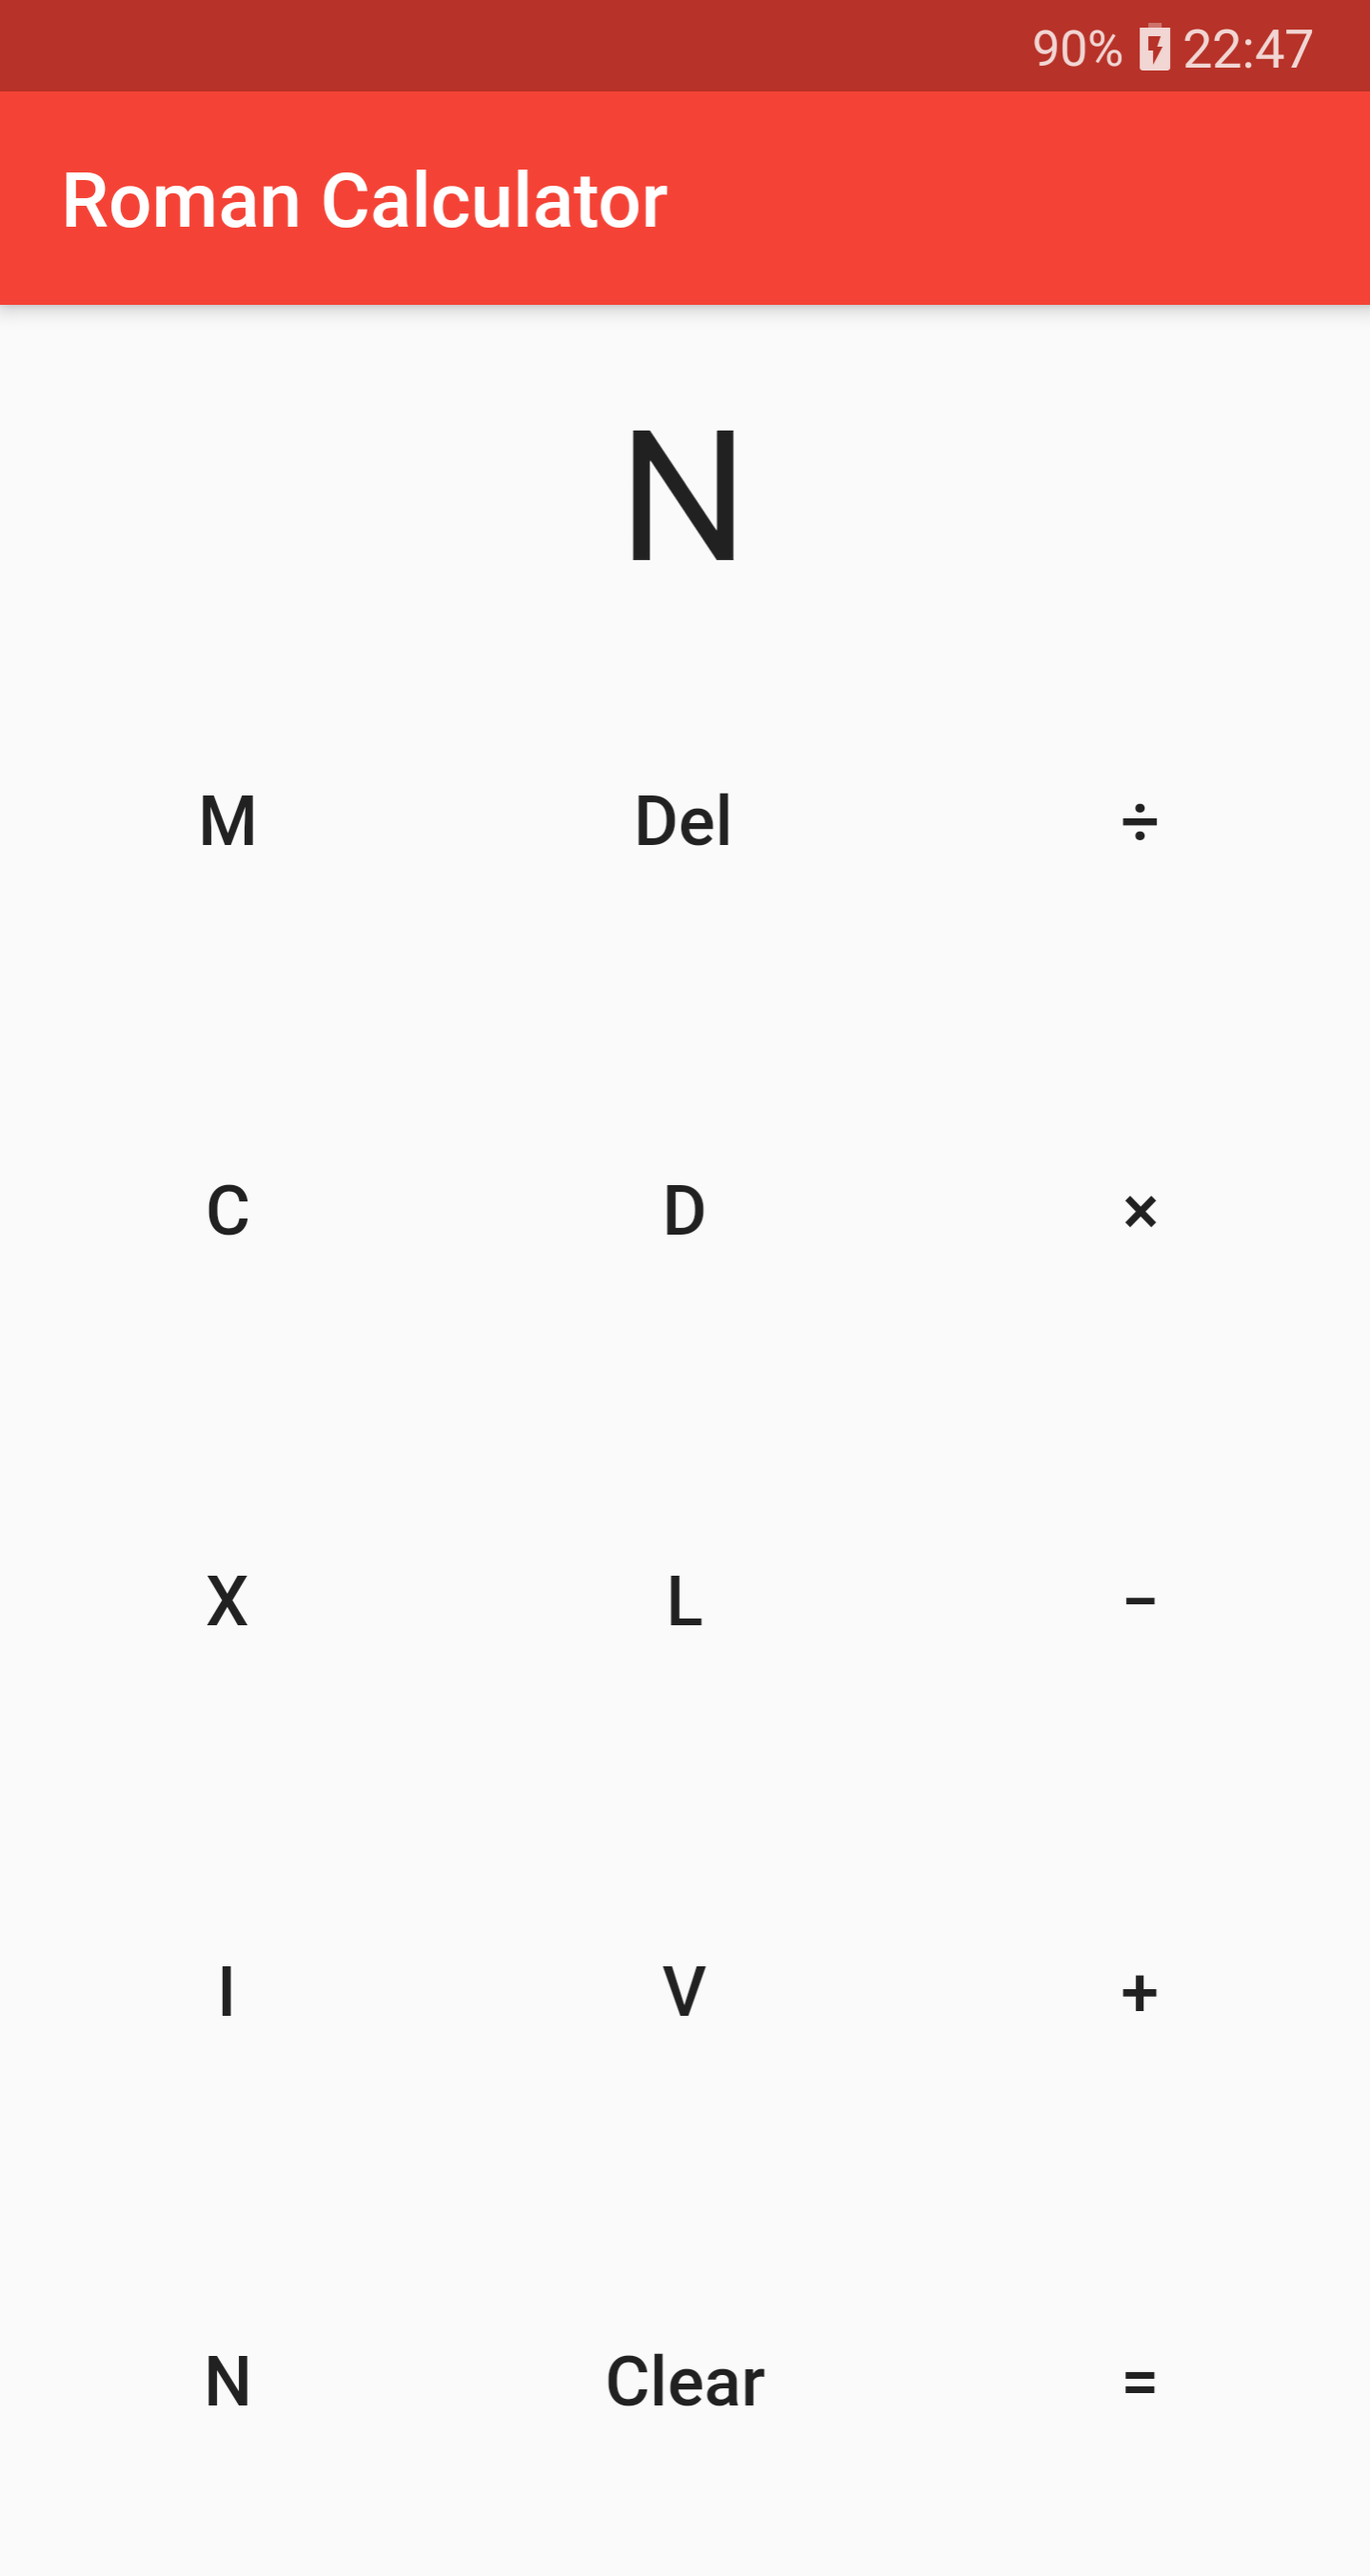
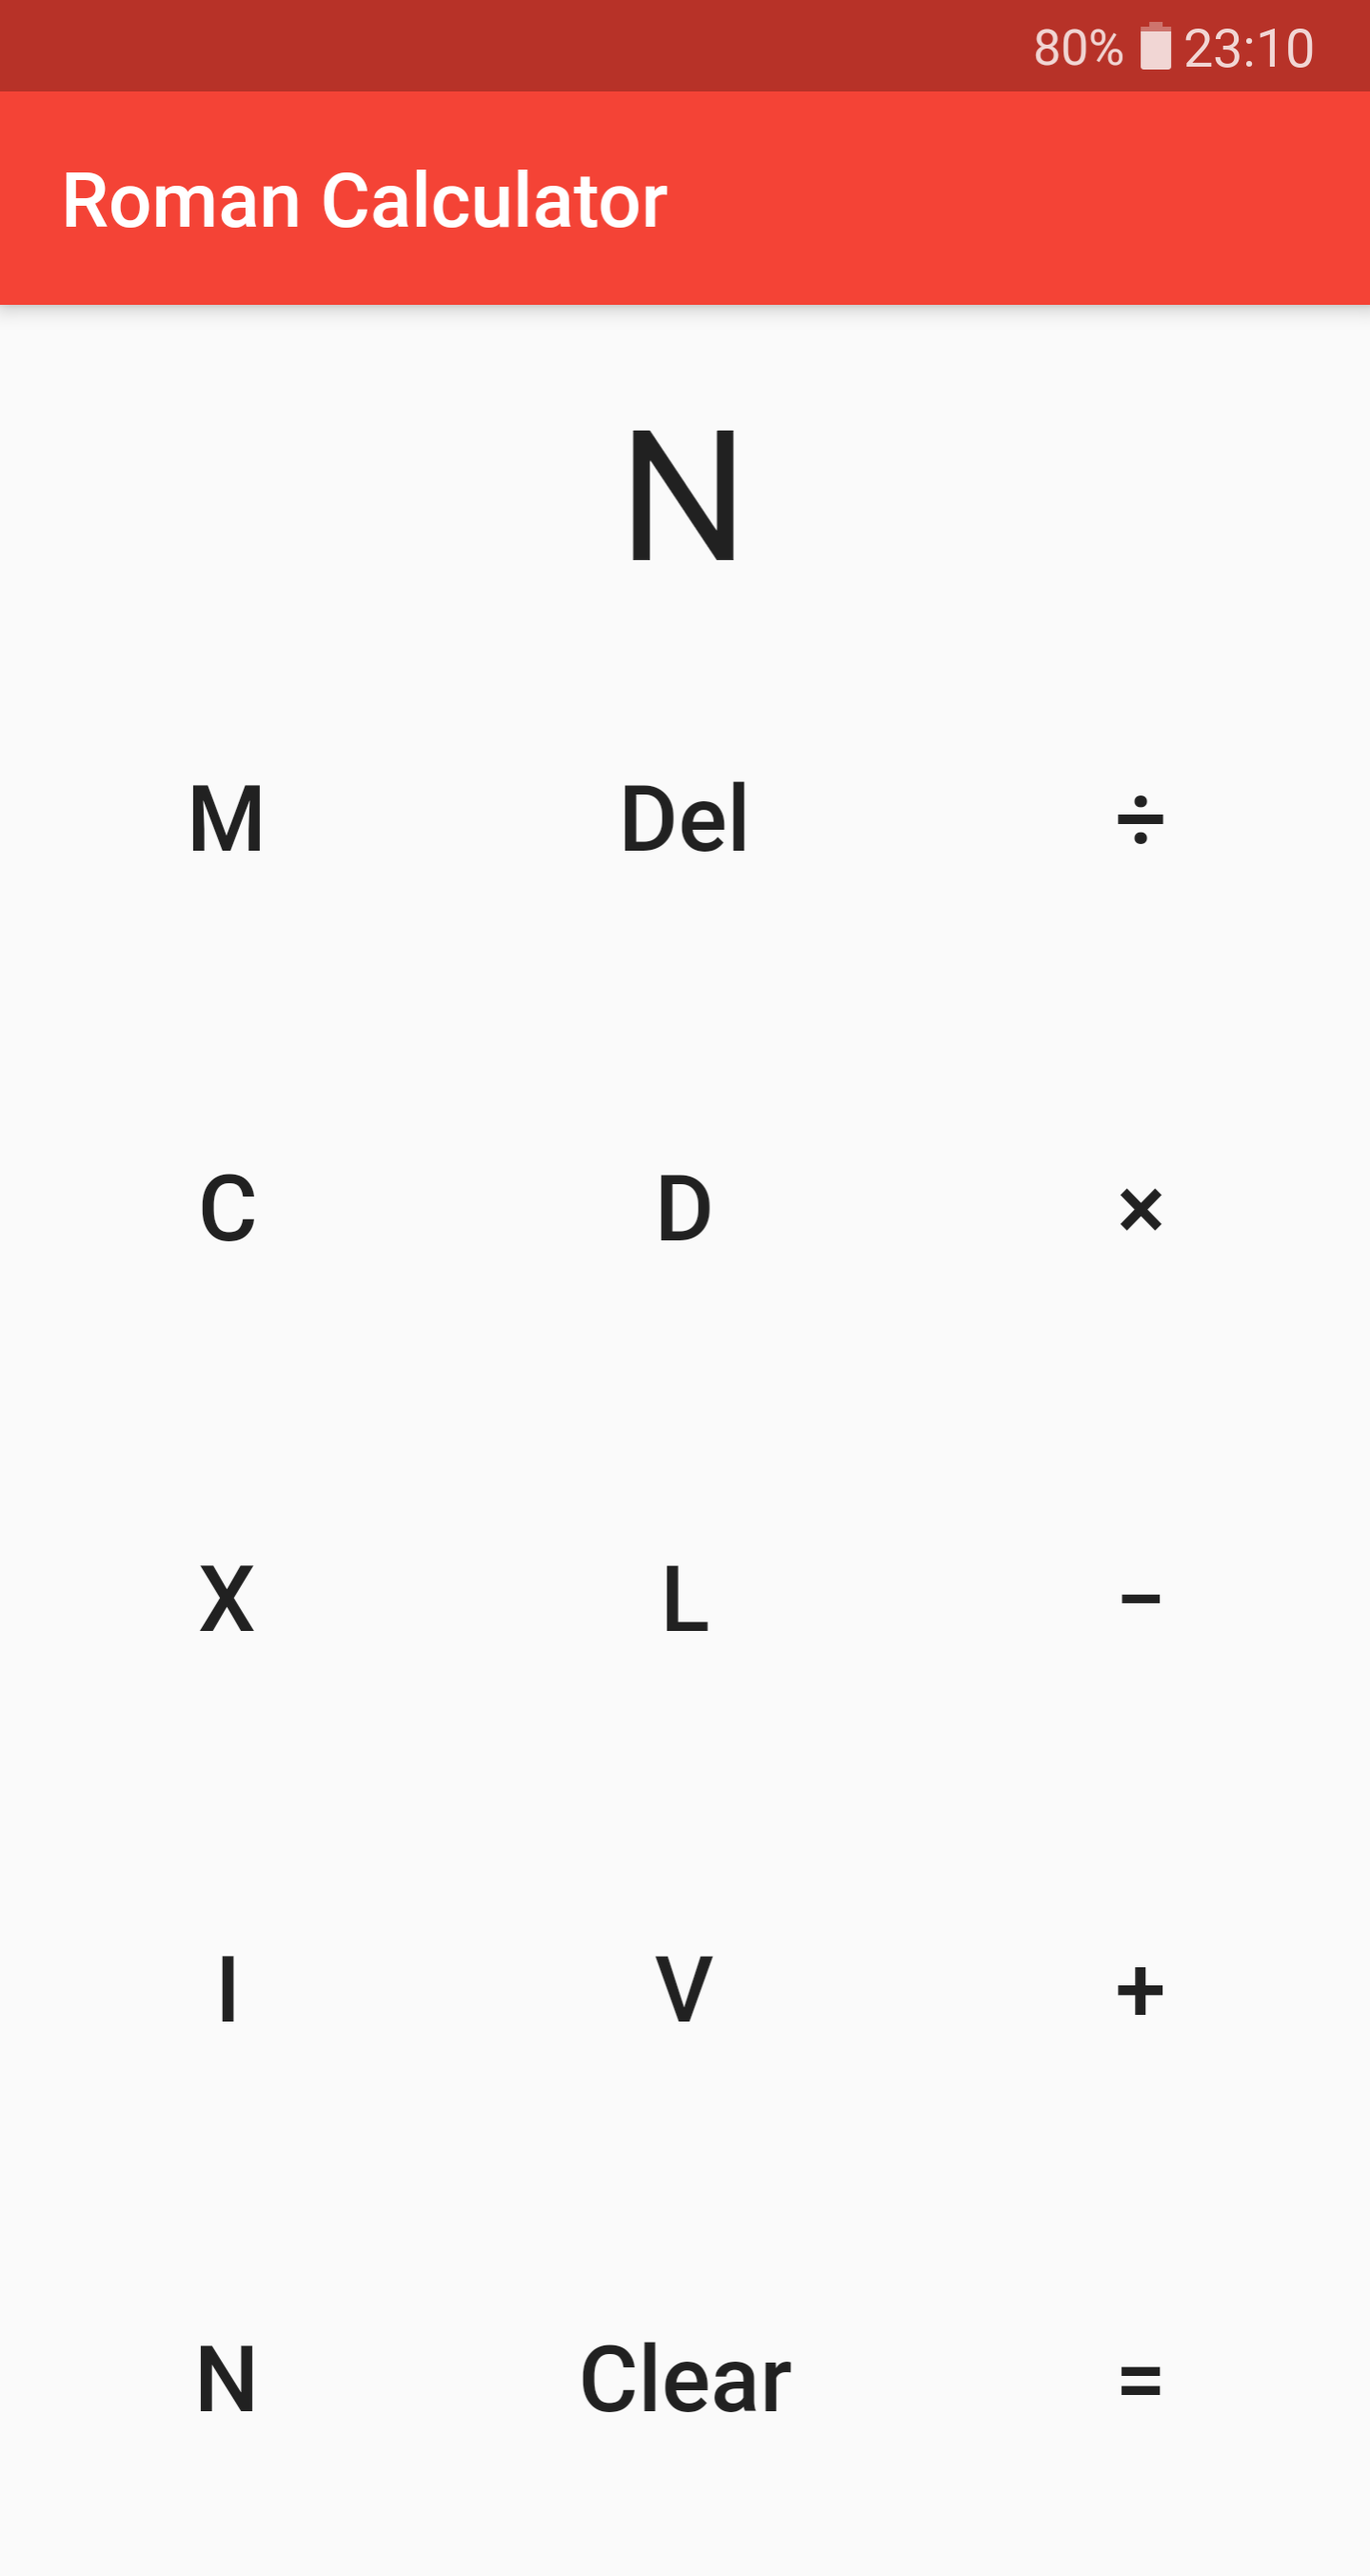
Changed font size and updated screenshot

diff --git a/lib/main.dart b/lib/main.dart
@@ -50,7 +50,7 @@ class _RomanCalculatorState extends State<RomanCalculator> {
           }
         });
       },
-      child: Text(value, style: TextStyle(fontSize: 18.0)),
+      child: Text(value, style: TextStyle(fontSize: 24.0)),
     );
   }
 
@@ -107,7 +107,7 @@ class _RomanCalculatorState extends State<RomanCalculator> {
           _operation = value;
         });
       },
-      child: Text(value, style: TextStyle(fontSize: 18.0)),
+      child: Text(value, style: TextStyle(fontSize: 24.0)),
     );
   }
 
@@ -122,7 +122,7 @@ class _RomanCalculatorState extends State<RomanCalculator> {
           _input = _input.substring(0, max(_input.length - 1, 0));
         });
       },
-      child: Text('Del', style: TextStyle(fontSize: 18.0)),
+      child: Text('Del', style: TextStyle(fontSize: 24.0)),
     );
   }
 
@@ -138,7 +138,7 @@ class _RomanCalculatorState extends State<RomanCalculator> {
           _operation = '+';
         });
       },
-      child: Text('Clear', style: TextStyle(fontSize: 18.0)),
+      child: Text('Clear', style: TextStyle(fontSize: 24.0)),
     );
   }
 
